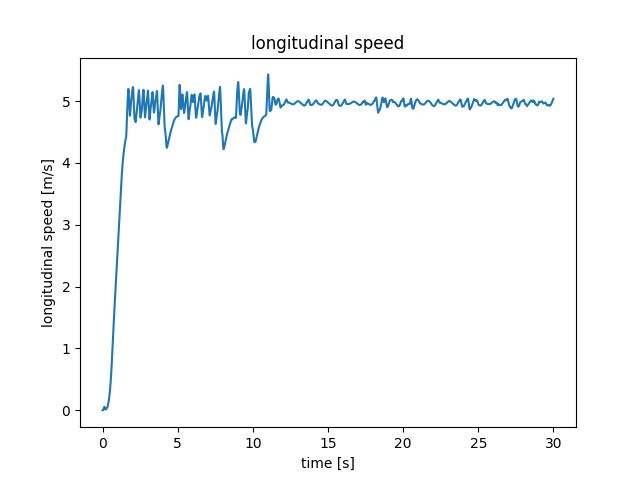
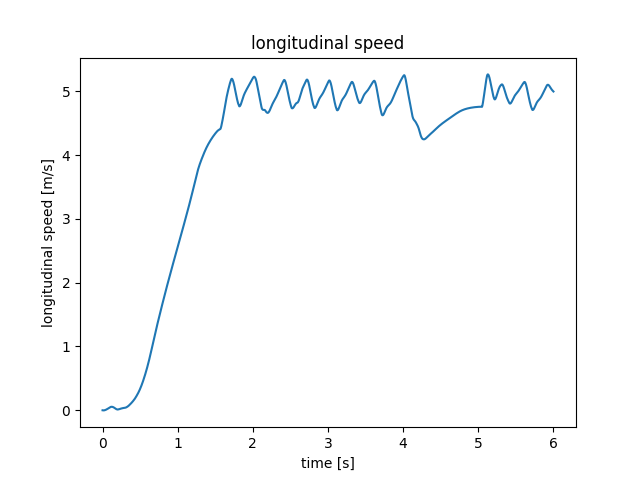
Tried Urara's idea 1 and 2 in environment.py

diff --git a/chrono_env/environment.py b/chrono_env/environment.py
@@ -6,6 +6,7 @@ import math
 import numpy as np
 # from .utils import *
 from .utils import VehicleParameters, init_vehicle, init_terrain, init_irrlicht_vis, get_vehicle_state, get_toe_in
+from scipy.spatial.transform import Rotation as R
 
 class ChronoEnv:
     def __init__(self, step_size, throttle_value) -> None:
@@ -45,6 +46,9 @@ class ChronoEnv:
         self.toein_RL = []
         self.toein_RR = []
         self.steering_driver = []
+
+        self.roll, self.pitch, self.yaw = [], [], []
+        self.max_steering_angle = []
 
         self.driver_inputs = veh.DriverInputs()
         self.driver_inputs.m_throttle = throttle_value
@@ -162,20 +166,50 @@ class ChronoEnv:
         wheel_state_global = self.my_hmmwv.GetVehicle().GetWheel(0,0).GetState() #in global frame
         toe_in = get_toe_in(self, wheel_state_global)
 
-        wheel_state_global_2 = self.my_hmmwv.GetVehicle().GetWheel(0,1).GetState() #in global frame
-        toe_in_2 = get_toe_in(self, wheel_state_global_2)
+        # wheel_state_global_2 = self.my_hmmwv.GetVehicle().GetWheel(0,1).GetState() #in global frame
+        # toe_in_2 = get_toe_in(self, wheel_state_global_2)
 
-        wheel_state_global_3 = self.my_hmmwv.GetVehicle().GetWheel(1,0).GetState() #in global frame
-        toe_in_3 = get_toe_in(self, wheel_state_global_3)
-        wheel_state_global_4 = self.my_hmmwv.GetVehicle().GetWheel(1,1).GetState() #in global frame
-        toe_in_4 = get_toe_in(self, wheel_state_global_4)
+        # wheel_state_global_3 = self.my_hmmwv.GetVehicle().GetWheel(1,0).GetState() #in global frame
+        # toe_in_3 = get_toe_in(self, wheel_state_global_3)
+        # wheel_state_global_4 = self.my_hmmwv.GetVehicle().GetWheel(1,1).GetState() #in global frame
+        # toe_in_4 = get_toe_in(self, wheel_state_global_4)
+
+        #### Urara's idea 1 (weird results) ####
+        # Quaternion of the vehicle (chassis) in global frame
+        vehicle_quat_global = self.my_hmmwv.GetVehicle().GetRot()
+        # Quaternion of the wheel in global frame
+        wheel_quat_global = self.my_hmmwv.GetVehicle().GetWheel(0,0).GetState().rot
+        # Quaternion of the wheel with respect to the vehicle
+        wheel_quat_local = vehicle_quat_global.GetInverse()*wheel_quat_global
+        # Convert quaternion to euler angles
+        wheel_euler_local = wheel_quat_local.Q_to_Euler123()
+        roll, pitch, yaw = wheel_euler_local.x, wheel_euler_local.y, wheel_euler_local.z
+        max_steering_angle = self.my_hmmwv.GetVehicle().GetMaxSteeringAngle()
+        self.roll.append(roll*180/np.pi)
+        self.pitch.append(pitch*180/np.pi)
+        self.yaw.append(yaw*180/np.pi)
+        self.max_steering_angle.append(max_steering_angle*180/np.pi)
+        print("wheel with respect to vehicle: roll", roll*180/np.pi, "pitch", pitch*180/np.pi, "yaw", yaw*180/np.pi)
+
+        # #### Urara's idea 2 (weird results): The idea is the same as the idea 1, but implemented in scipy####
+        # max_steering_angle = self.my_hmmwv.GetVehicle().GetMaxSteeringAngle()
+        # vehicle_quat_global_scipy = R.from_quat([vehicle_quat_global.e0, vehicle_quat_global.e1, vehicle_quat_global.e2, vehicle_quat_global.e3])
+        # wheel_quat_global_scipy = R.from_quat([wheel_quat_global.e0, wheel_quat_global.e1, wheel_quat_global.e2, wheel_quat_global.e3])
+        # wheel_quat_local_scipy = vehicle_quat_global_scipy.inv()*wheel_quat_global_scipy
+        # wheel_euler_local_scipy = wheel_quat_local_scipy.as_euler('zxy', degrees=True)
+        # roll, pitch, yaw = wheel_euler_local_scipy[0], wheel_euler_local_scipy[1], wheel_euler_local_scipy[2]
+        # self.roll.append(roll)
+        # self.pitch.append(pitch)
+        # self.yaw.append(yaw)
+        # self.max_steering_angle.append(max_steering_angle*180/np.pi)
+        # ##########################################################
 
         self.toein_FL.append(toe_in*180/np.pi)
-        self.toein_FR.append(toe_in_2*180/np.pi)
-        self.toein_RL.append(toe_in_3*180/np.pi)
-        self.toein_RR.append(toe_in_4*180/np.pi)
+        # self.toein_FR.append(toe_in_2*180/np.pi)
+        # self.toein_RL.append(toe_in_3*180/np.pi)
+        # self.toein_RR.append(toe_in_4*180/np.pi)
         self.steering_driver.append(self.my_hmmwv.state[-1]*180/np.pi)
-        print("toe_in Front Left",toe_in*180/np.pi,"FR",toe_in_2*180/np.pi,"RL",toe_in_3*180/np.pi, "steering", self.my_hmmwv.state[-1]*180/np.pi)
+        # print("toe_in Front Left",toe_in*180/np.pi,"FR",toe_in_2*180/np.pi,"RL",toe_in_3*180/np.pi, "steering", self.my_hmmwv.state[-1]*180/np.pi)
         # print("toe_in",toe_in, "steering", self.my_hmmwv.state[-1]/self.my_hmmwv.GetVehicle().GetMaxSteeringAngle())
 
     def render(self) -> None:

diff --git a/main.py b/main.py
@@ -54,7 +54,7 @@ map_name = 'SaoPaulo'  # Nuerburgring, SaoPaulo, rounded_rectangle, l_shape, Bra
 # constant_friction = 0.7
 # number_of_laps = 20
 # SAVE_MODEL = True
-t_end = 30
+t_end = 6
 # --------------
 
 # Init the ChronoEnv
@@ -183,14 +183,25 @@ plt.savefig("trajectory.png")
 
 plt.figure()
 plt.plot(env.toein_FL, label="Front Left")
-plt.plot(env.toein_FR, label="Front Right")
-plt.plot(env.toein_RL, label="Rear Left")
-plt.plot(env.toein_RR, label="Rear Right")
+# plt.plot(env.toein_FR, label="Front Right")
+# plt.plot(env.toein_RL, label="Rear Left")
+# plt.plot(env.toein_RR, label="Rear Right")
 plt.plot(env.steering_driver, label="driver input steering")
 plt.title("toe-in angle")
 plt.legend()
 plt.xlabel("time step")
 plt.ylabel("toe-in angle [deg]")
 plt.savefig("toe-in.png")
+
+plt.figure()
+plt.plot(env.roll, linestyle="solid", label="roll")
+plt.plot(env.pitch, linestyle="dashed", label="pitch")
+plt.plot(env.yaw, linestyle="dotted", label="yaw")
+plt.plot(env.max_steering_angle, linestyle="dashdot", label="max steering angle")
+plt.title("roll, pitch, yaw of wheel with respect to chassis")
+plt.legend()
+plt.xlabel("time step")
+plt.ylabel("angle [deg]")
+plt.savefig("roll_pitch_yaw.png")
 
 plt.show()

diff --git a/chrono_env/utils.py b/chrono_env/utils.py
@@ -140,9 +140,9 @@ def get_vehicle_state(self):
     roll_angle = euler_angles.x
     pitch_angle = euler_angles.y
     yaw_angle = euler_angles.z
-    # print("Vehicle roll angle:", roll_angle)
-    # print("Vehicle pitch angle:", pitch_angle)
-    # print("Vehicle yaw angle:", yaw_angle)
+    print("Vehicle roll angle:", roll_angle)
+    print("Vehicle pitch angle:", pitch_angle)
+    print("Vehicle yaw angle:", yaw_angle)
 
     # Get the linear velocity of the chassis in the global frame
     chassis_velocity = vehicle.GetVehicle().GetChassis().GetBody().GetPos_dt()
@@ -195,7 +195,7 @@ def get_vehicle_state(self):
     # print("acc", acc)
 
     max_steering_angle = vehicle.GetVehicle().GetMaxSteeringAngle()
-    # print("max steering angle:", max_steering_angle)
+    print("max steering angle:", max_steering_angle)
 
     # print("steering angle", driver_inputs.m_steering)
 
@@ -281,7 +281,8 @@ def get_toe_in(self, wheel_state_global):
     n_v = self.my_hmmwv.GetVehicle().GetTransform().TransformDirectionLocalToParent(wheel_normal)
 
     # Toe-in
-    toe_in = math.atan2(n_v.x, n_v.y)
+    # toe_in = math.atan2(n_v.x, n_v.y)
+    toe_in = math.atan2(n.x, n.y)
 
     return toe_in
 

diff --git a/README.md b/README.md
@@ -6,9 +6,9 @@ Simulator for Tuner INN project using chrono
 If your chrono environment does not work due to lack of some packages, please try the following step.
 
 Try creating an environment from this yaml file in this repo using:
-'''bash
+```bash
 conda env create -f environment.yml -n chrono
-'''
+```
 
 Download this version of pychrono: https://anaconda.org/projectchrono/pychrono/8.0.0/download/linux-64/pychrono-8.0.0-py39_1.tar.bz2
 
